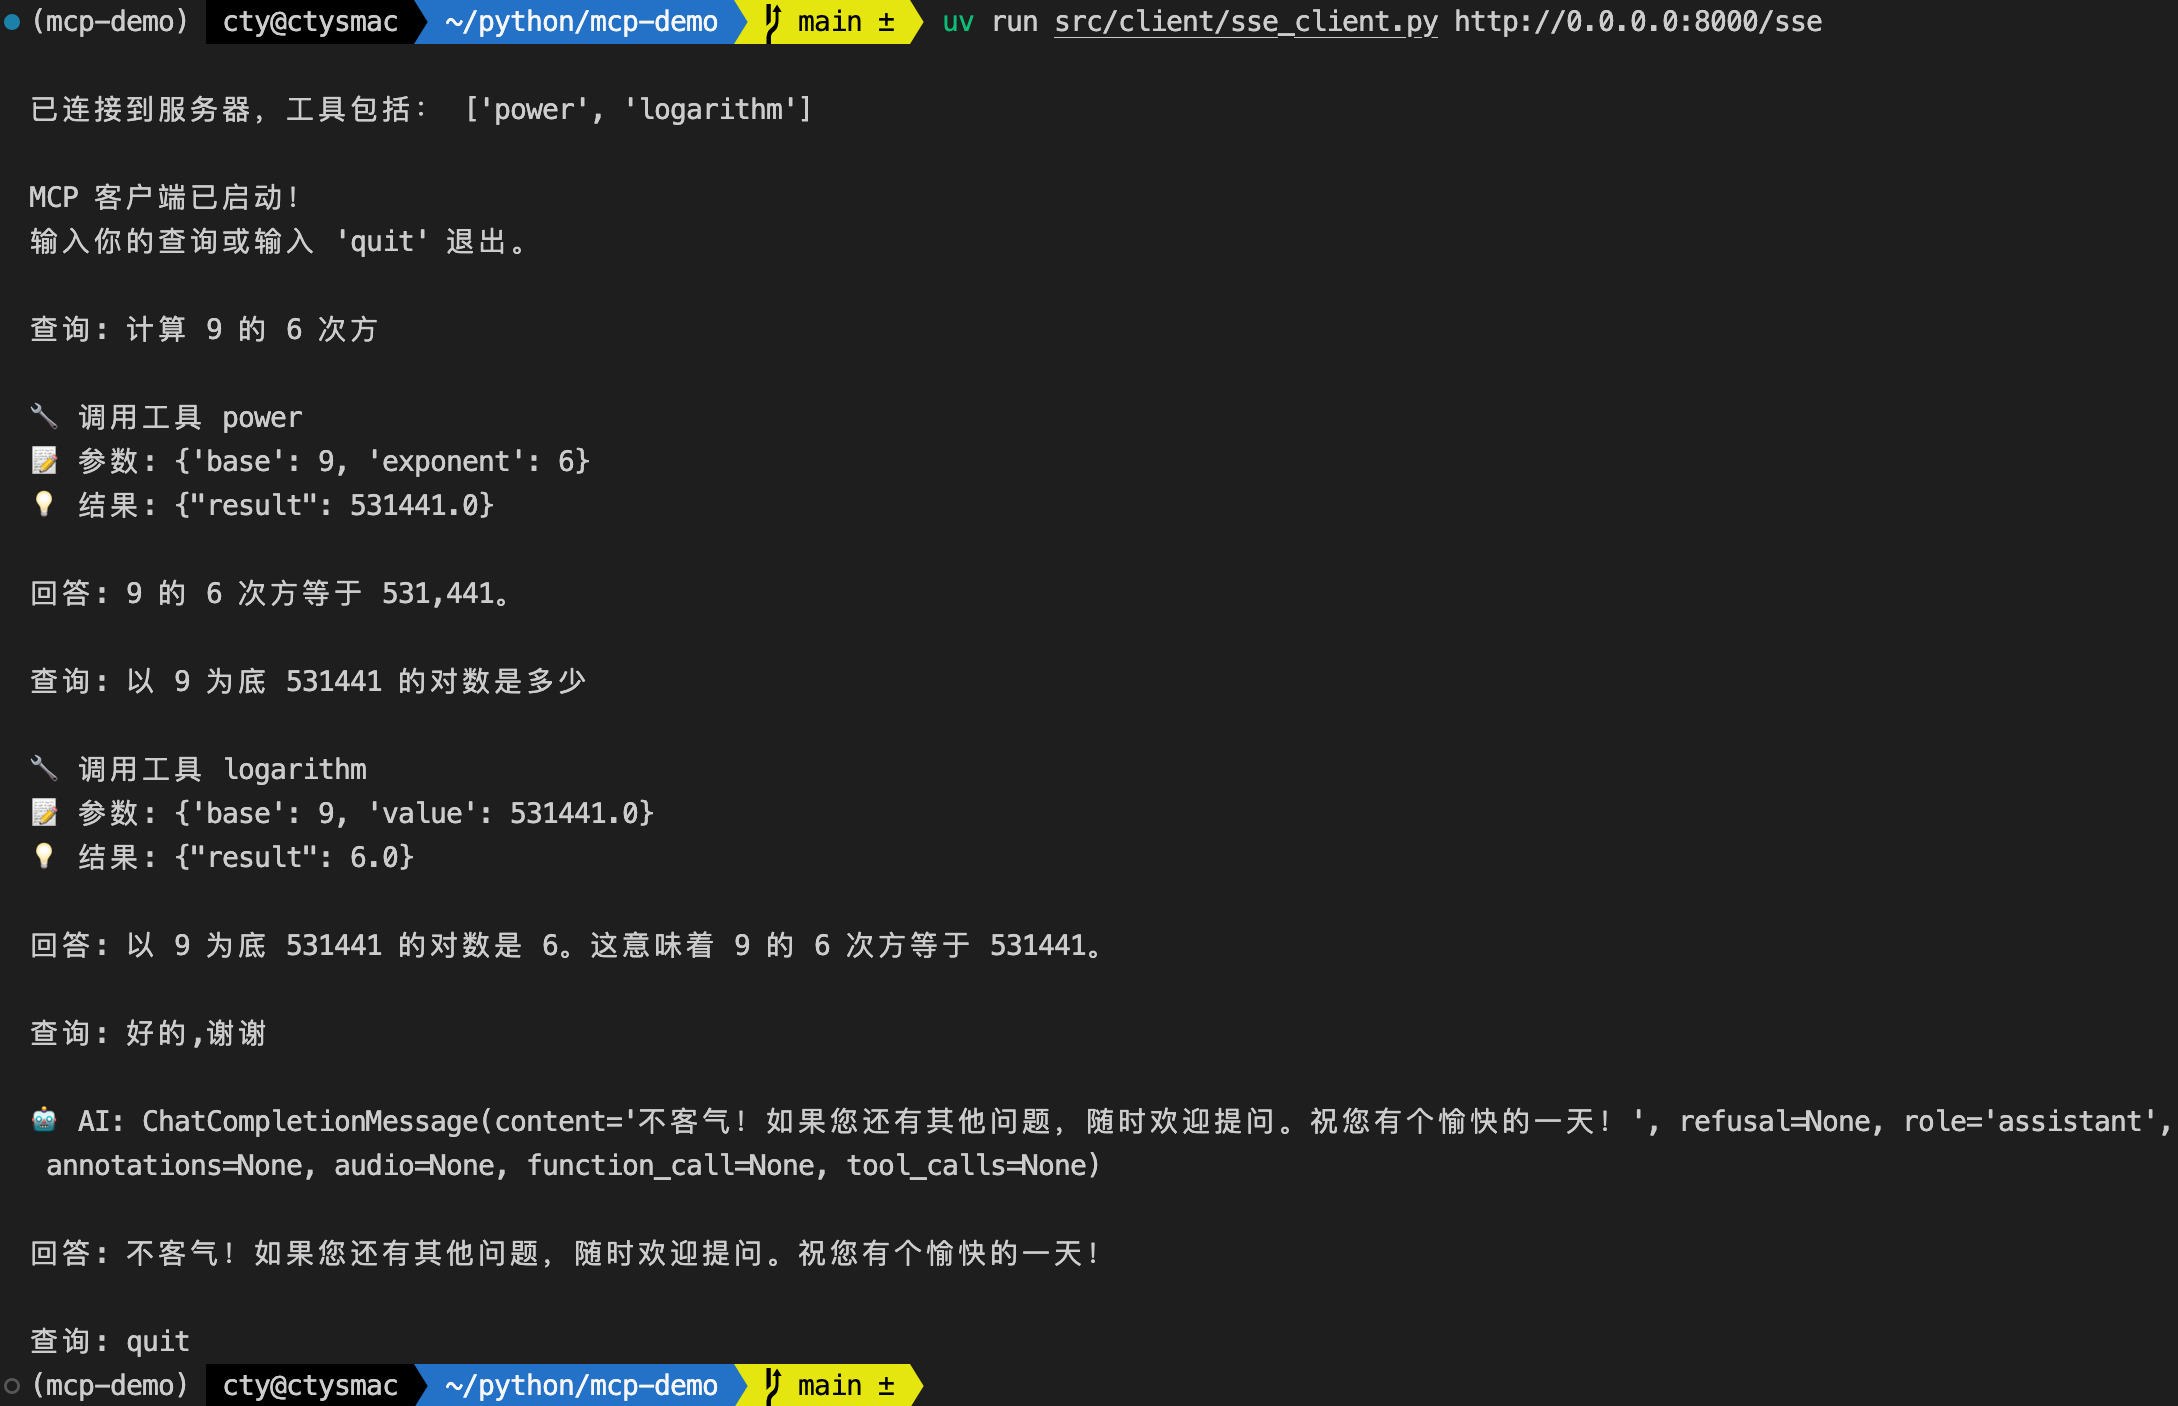
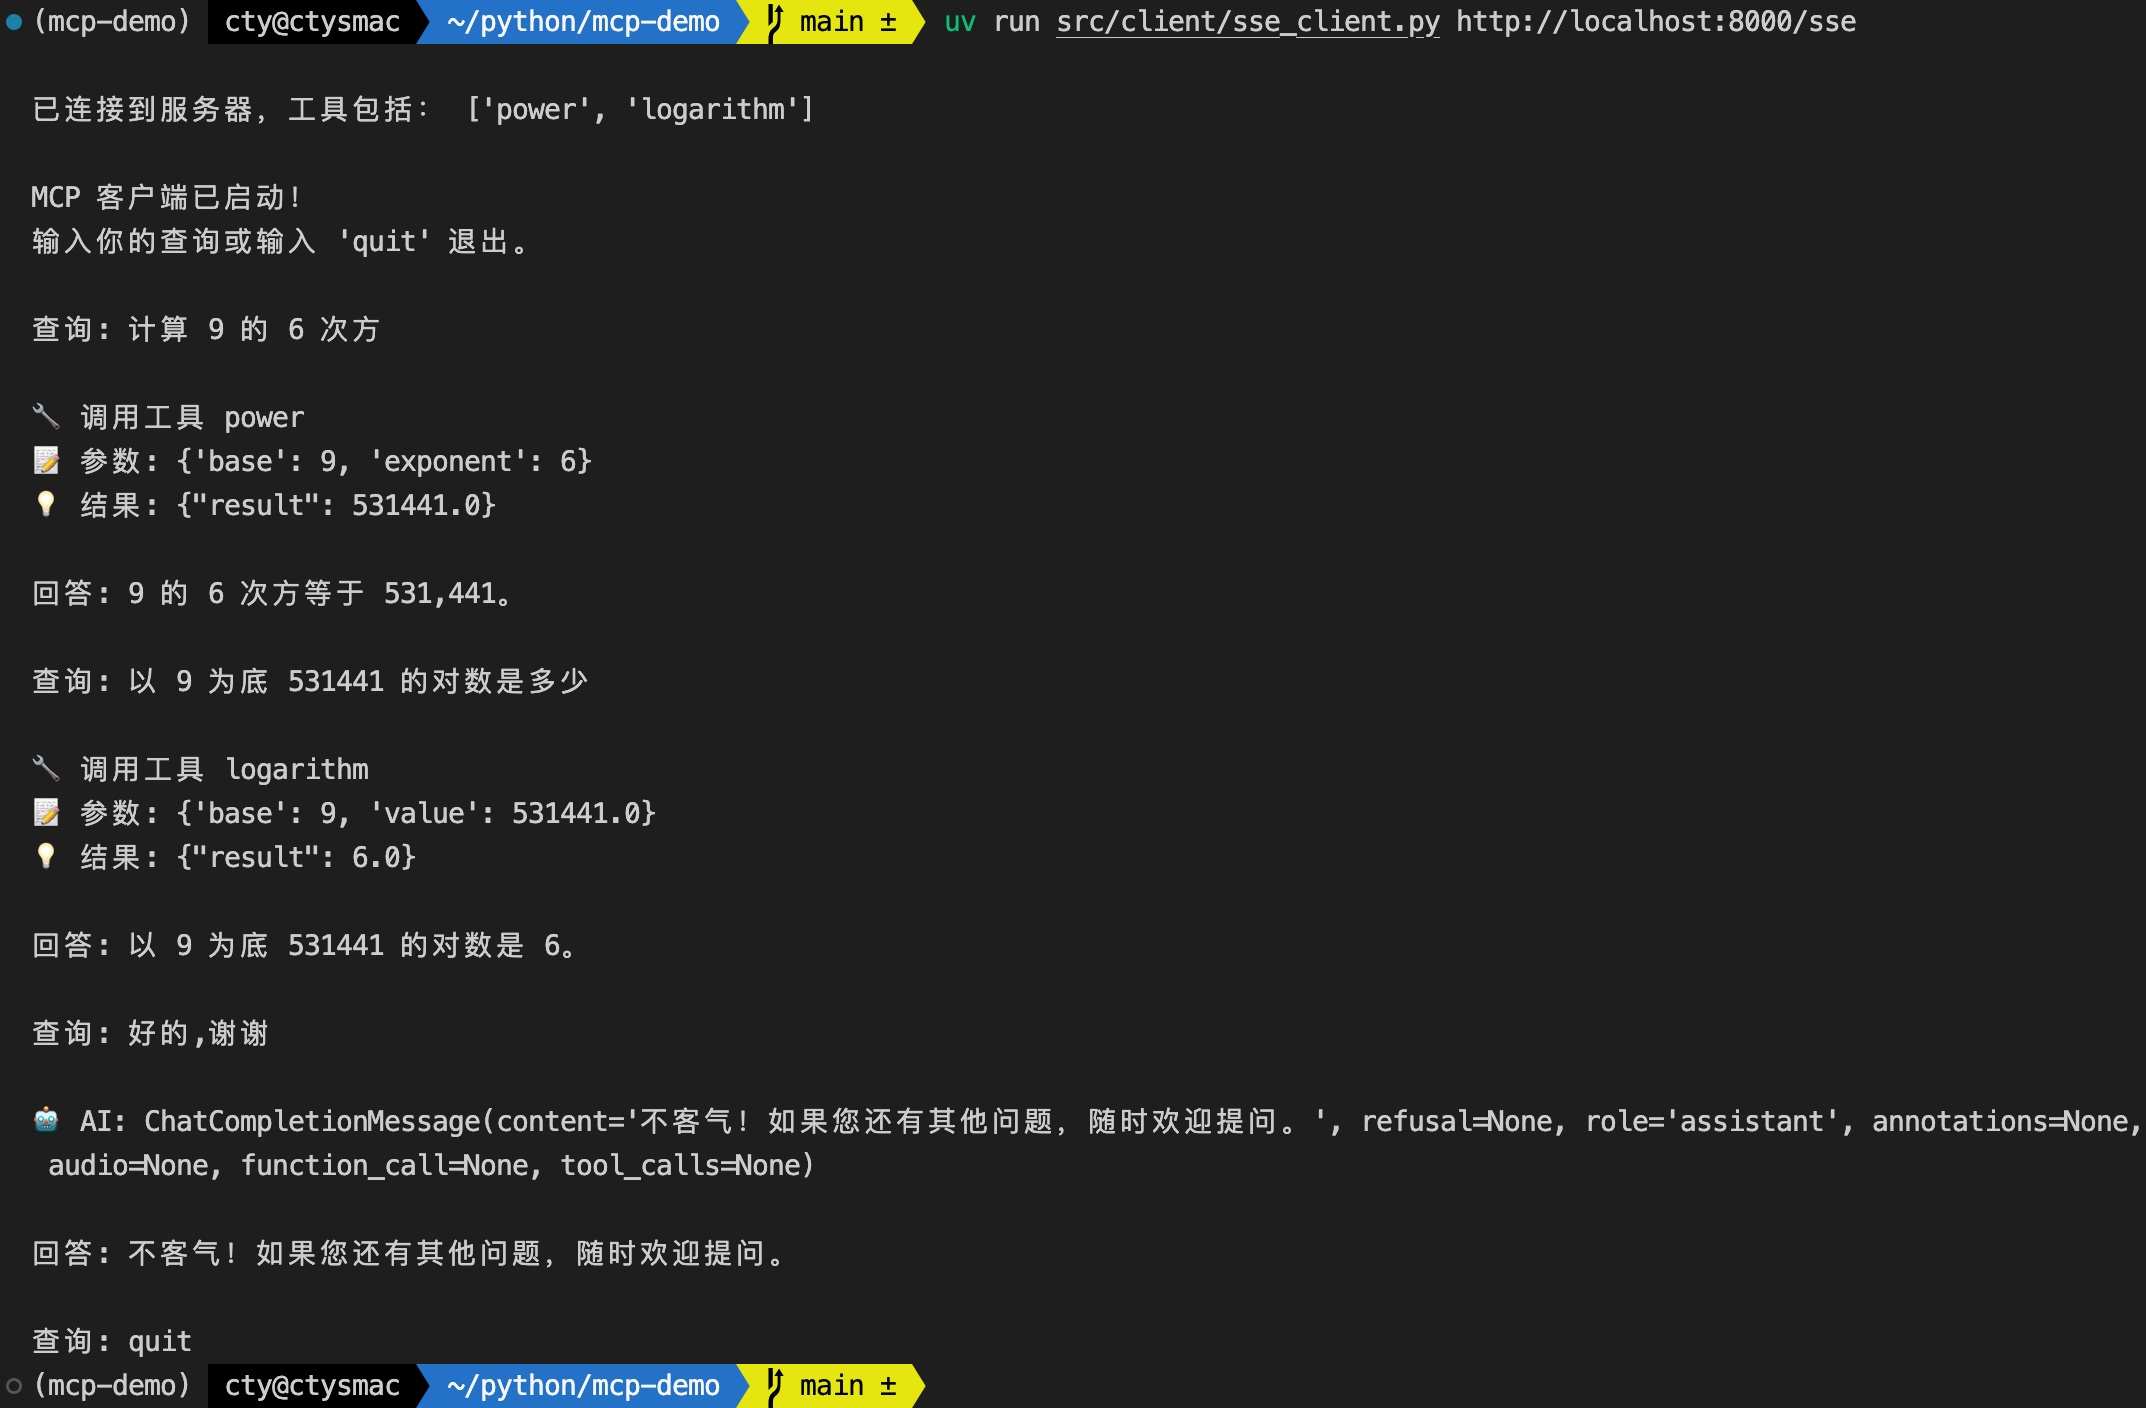
v2.0 tool-sse

diff --git a/README.md b/README.md
@@ -161,7 +161,7 @@ uv run src/server/mcp_sse_server_math.py --host 0.0.0.0 --port 8000
 1. 运行客户端：
 ```shell
 cd mcp-demo
-uv run src/client/sse_client.py http://0.0.0.0:8000/sse
+uv run src/client/sse_client.py http://localhost:8000/sse
 ```
 
 2. 测试结果：
